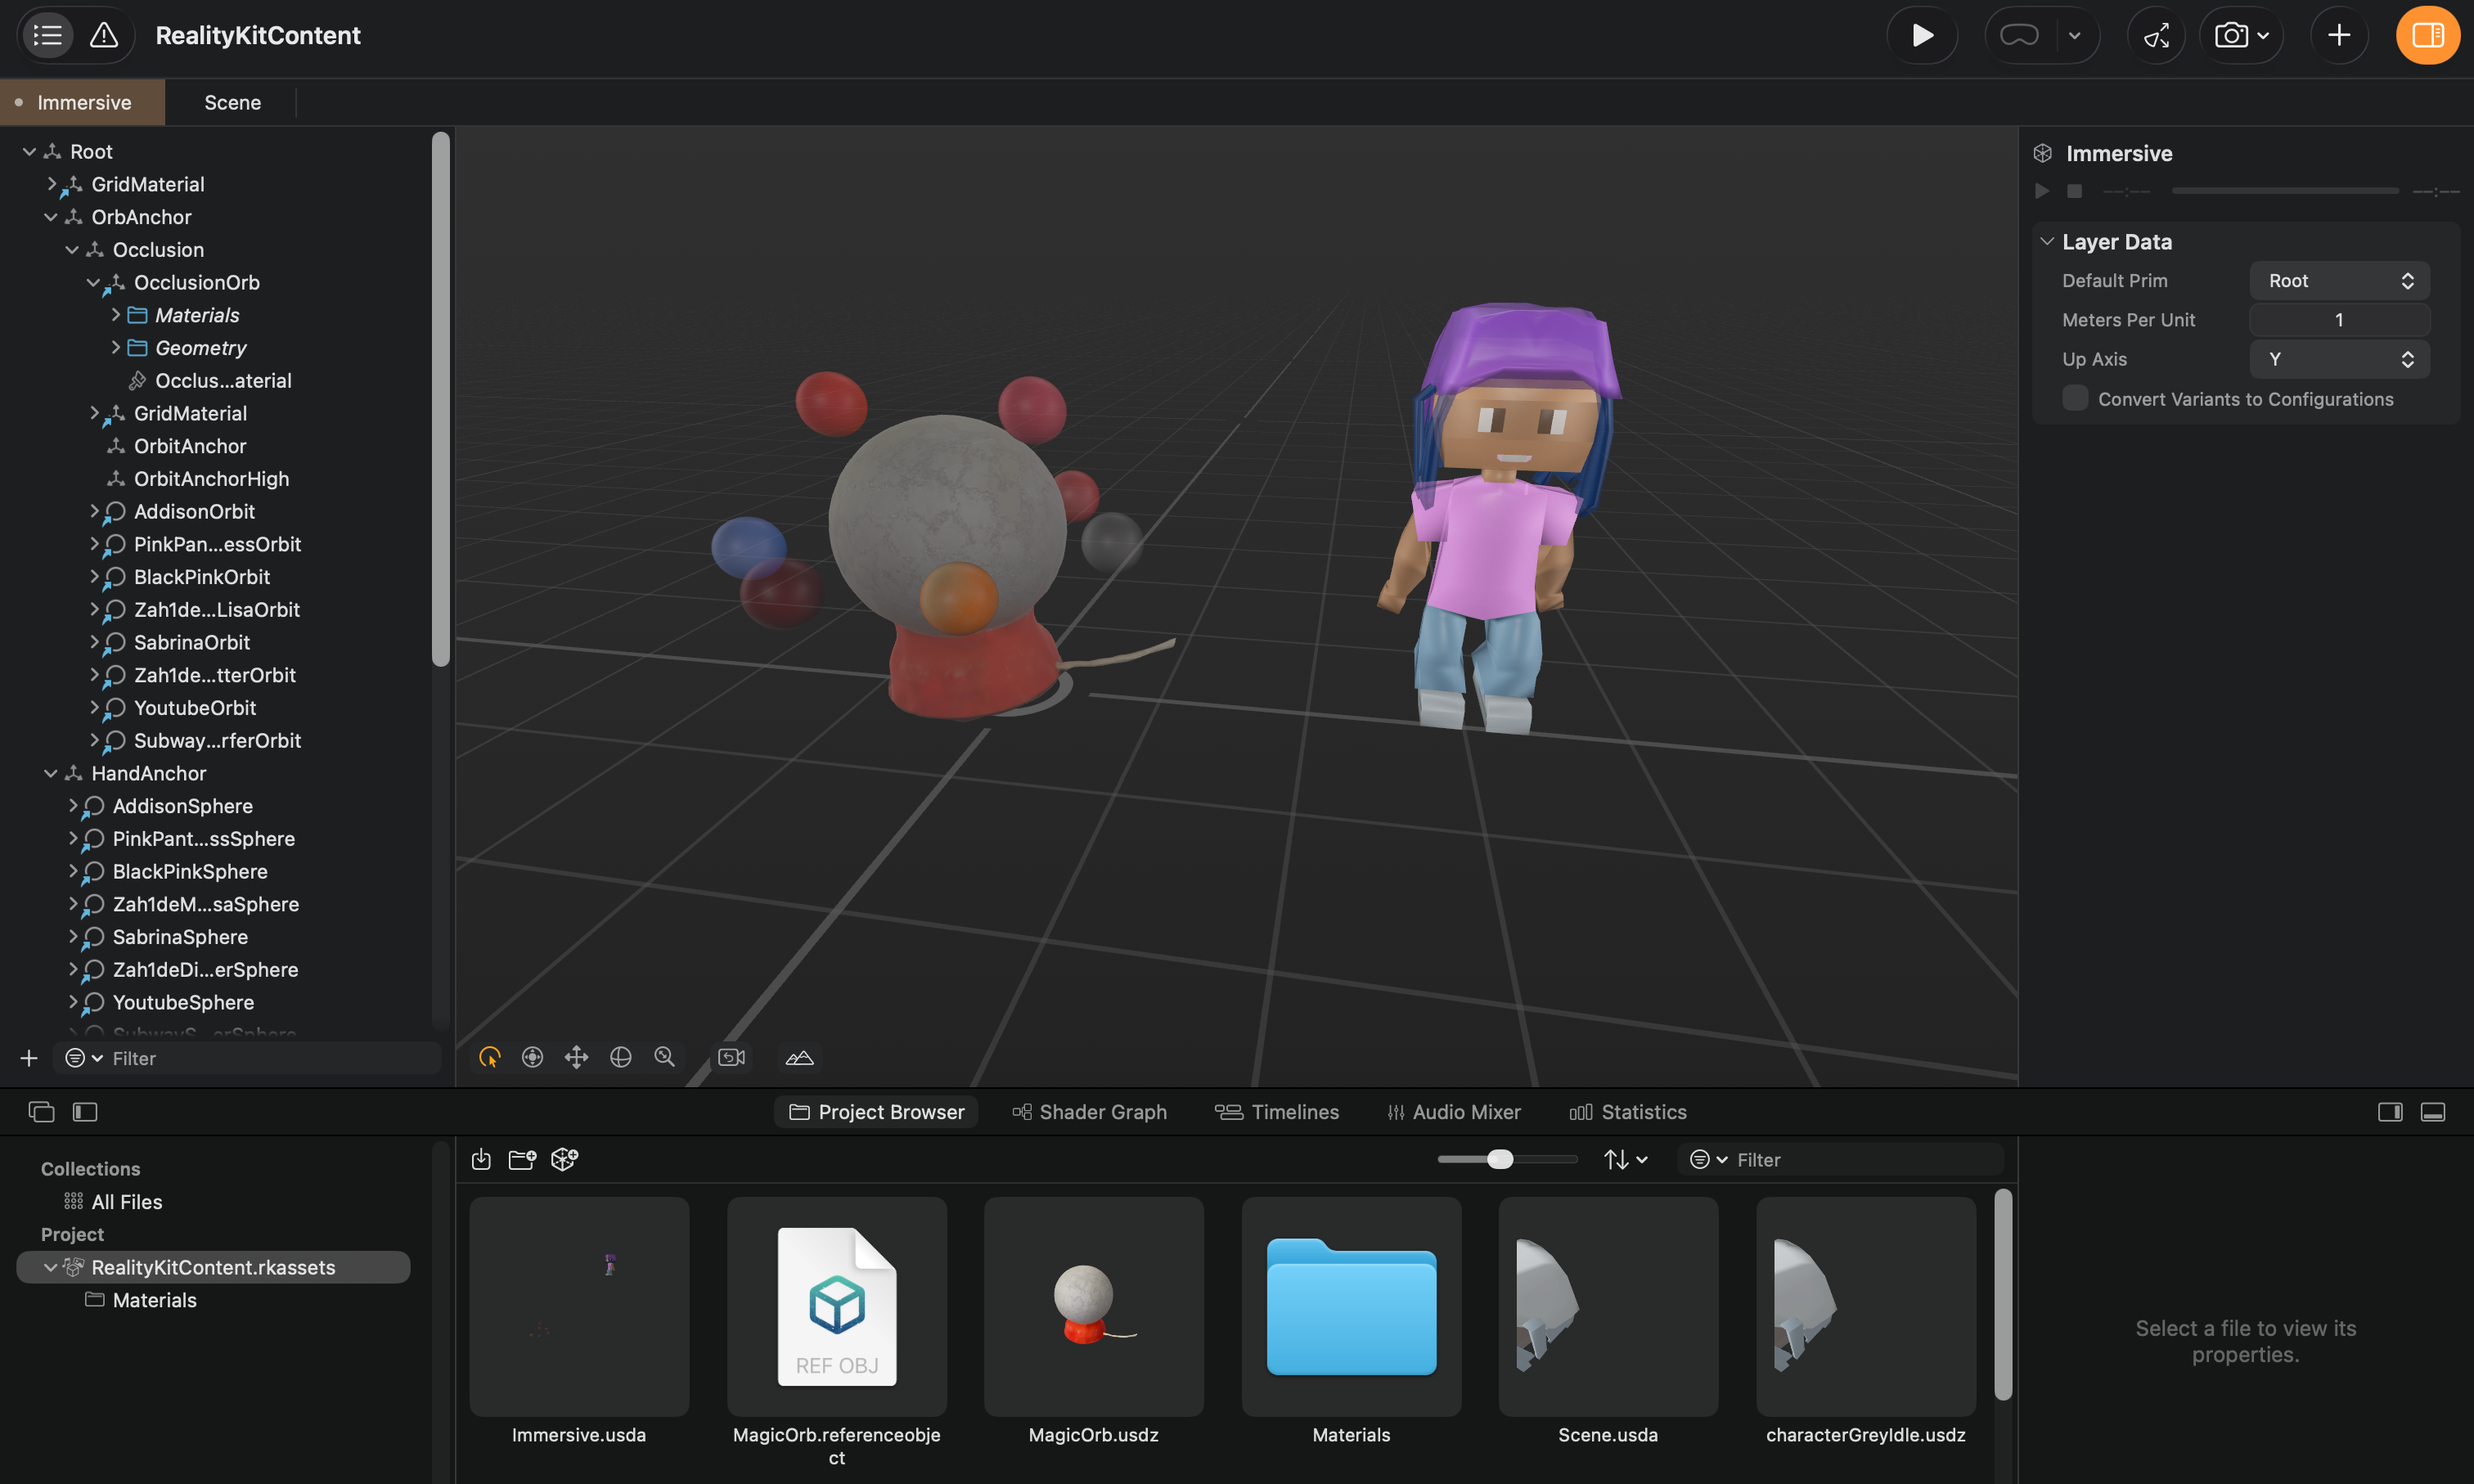
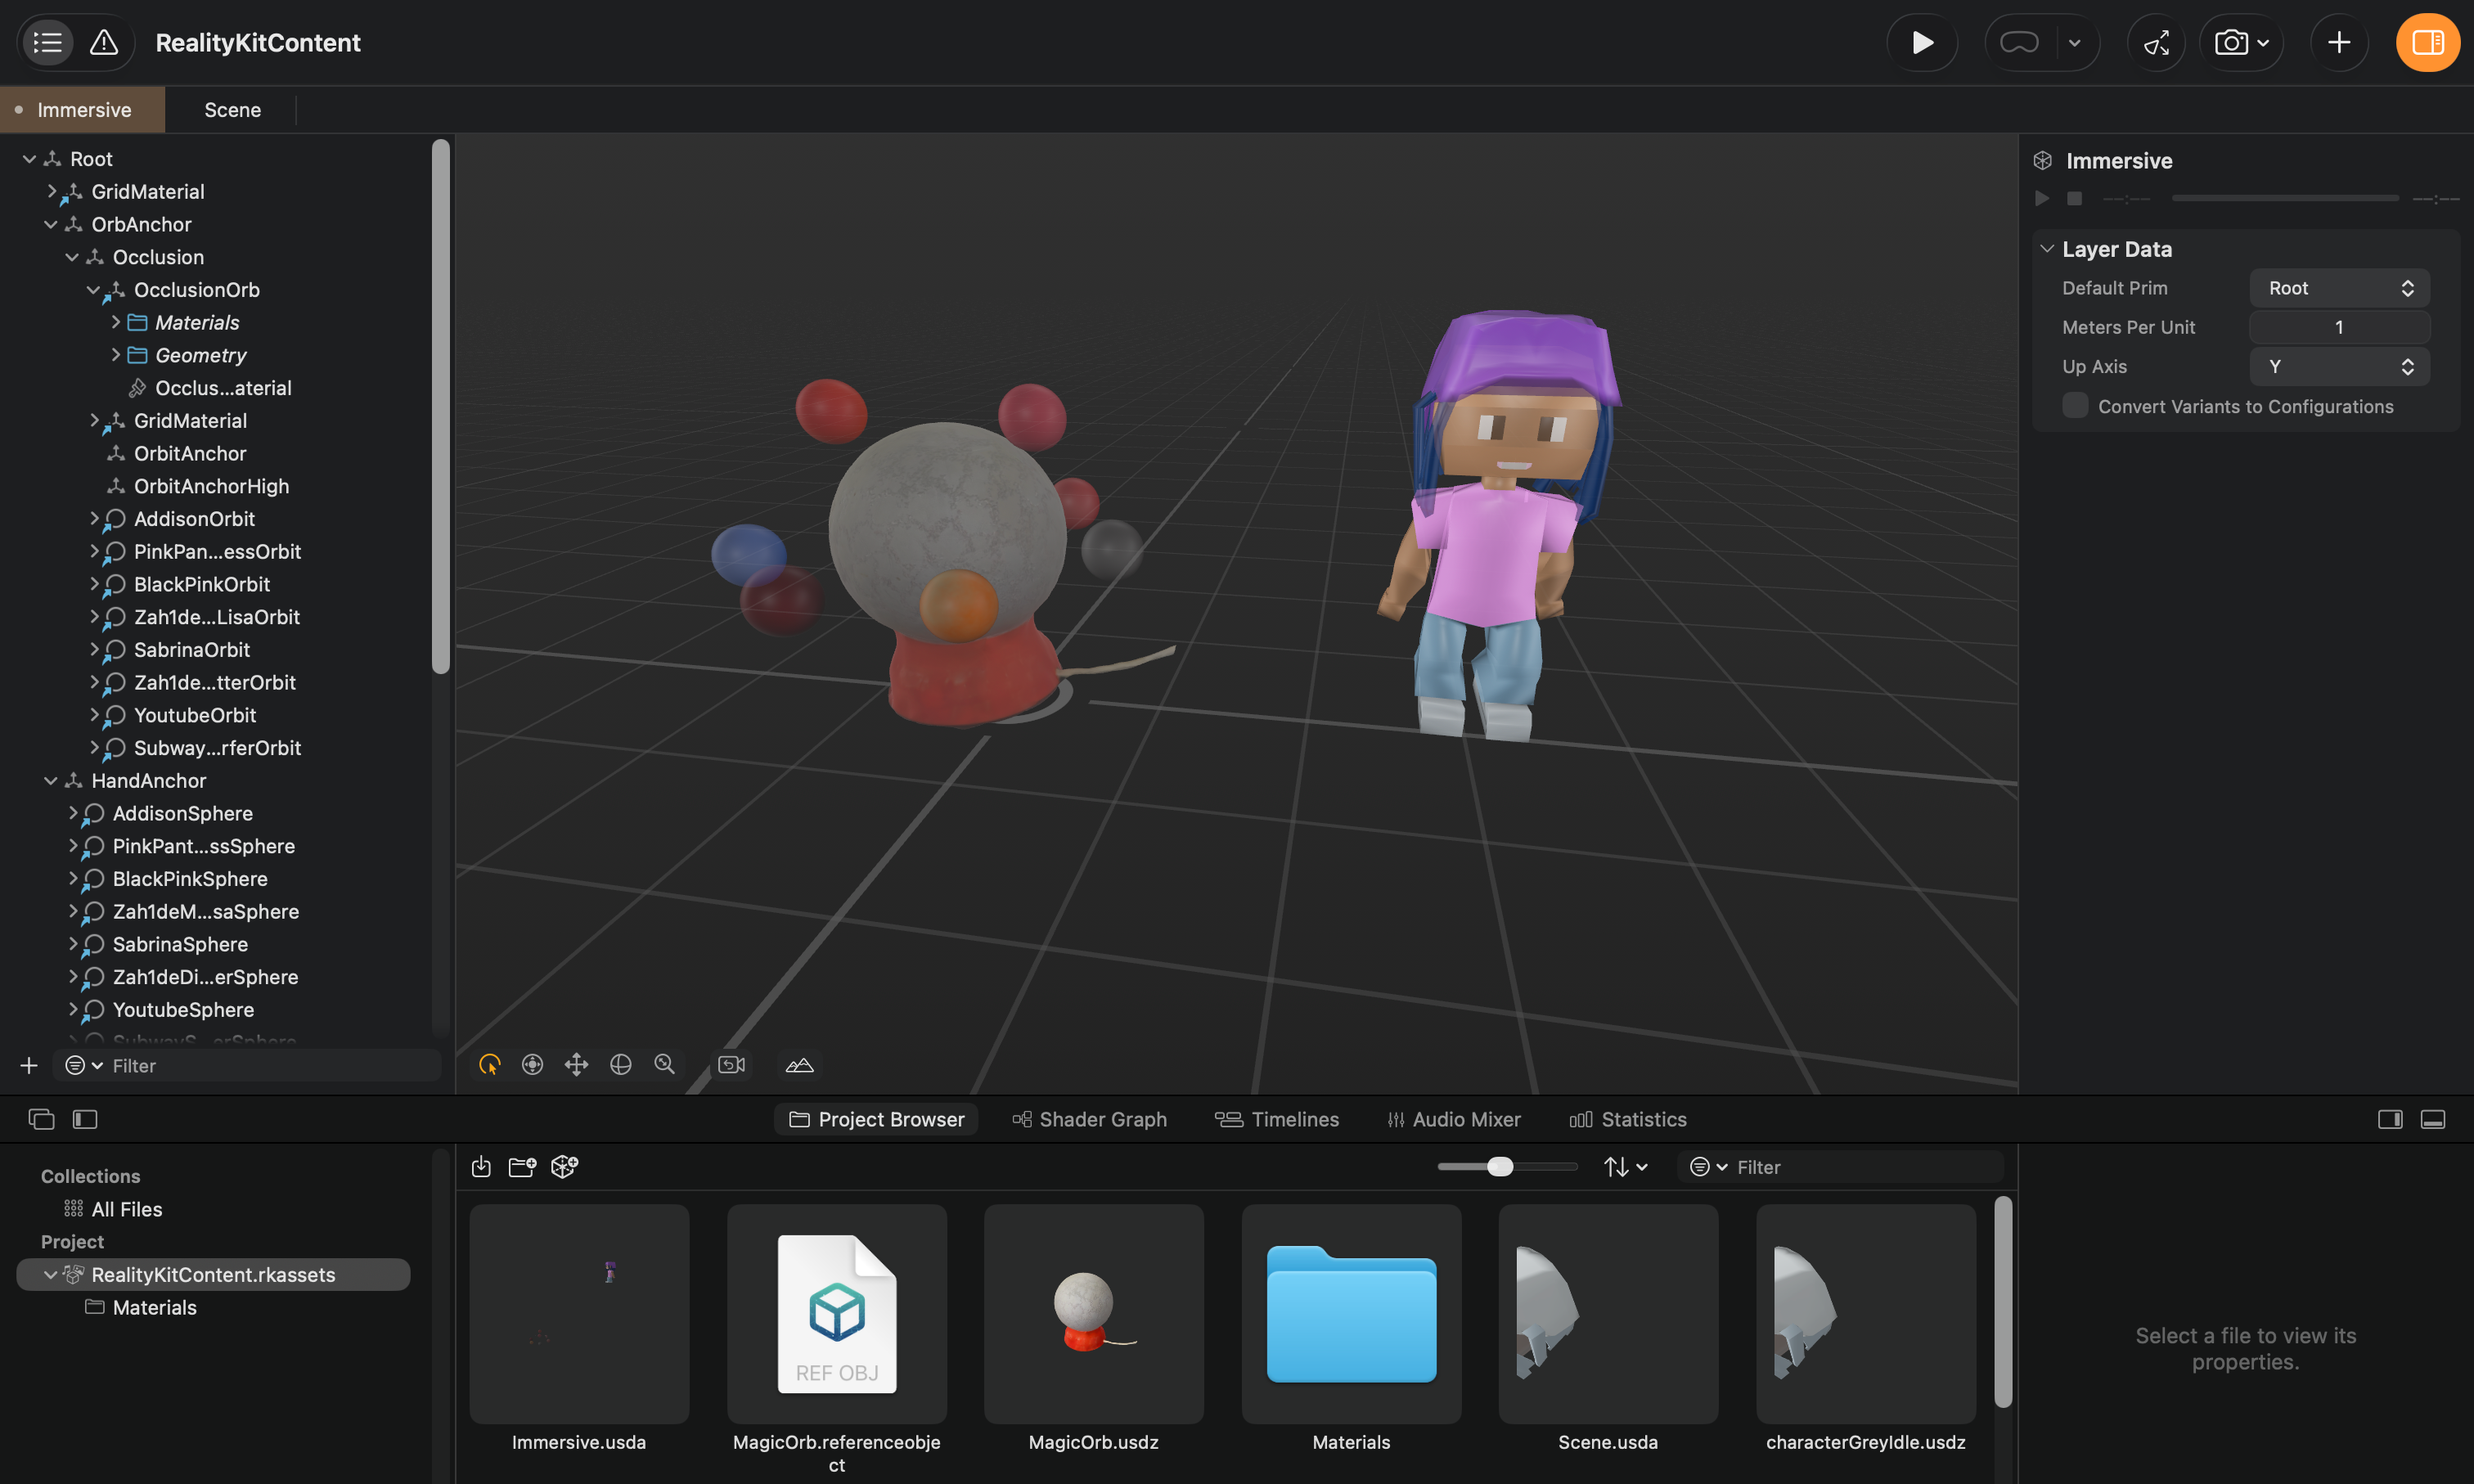
updated description 1&2

diff --git a/2.html b/2.html
@@ -76,8 +76,6 @@
 						<div class="card-text">
 							<p>
 								our main character-NPC, gary the hamster
-								<br>
-								<br>
 							</p>
 						</div>
 					</div>
@@ -86,8 +84,6 @@
 						<div class="card-text">
 							<p>
 								ants leading the way to the next point of interest
-								<br>
-								<br>
 							</p>
 						</div>
 					</div>
@@ -96,8 +92,6 @@
 						<div class="card-text">
 							<p>
 								our expandable minimap, available via button-press
-								<br>
-								<br>
 							</p>
 						</div>
 					</div>
@@ -106,8 +100,6 @@
 						<div class="card-text">
 							<p>
 								sliding puzzle minigame, needs to be completed to unlock next level
-								<br>
-								<br>
 							</p>
 						</div>
 					</div>
@@ -116,8 +108,6 @@
 						<div class="card-text">
 							<p>
 								game soundtrack
-								<br>
-								<br>
 							</p>
 						</div>
 					</div>
@@ -137,27 +127,67 @@
 			</div>
 		</div>
 
-		<div class="description mt-4">
-			<h2 class="h5">Game Soundtrack</h2>
-			<div class="mb-3">
-				<audio id="audio-player" controls loop style="width: 100%; max-width: 600px;">
-					<source src="resources/img/unity/game soundtrack.wav" type="audio/wav">
-					Your browser does not support the audio element.
-				</audio>
-			</div>
-		</div>
+        <div class="description content-spacer">
+            <div class="description">
+                <h2 class="h5">Project Description</h2>
 
-		<div class="description">
-			<h2 class="h5">Project description</h2>
-			<p class="mb-2">
-				This section provides additional context about the project, including goals, process, and outcomes. You
-				can write as much as you need here to describe the work in detail.
-			</p>
-			<p class="mb-0">
-				Feel free to include links, acknowledgements, and any relevant background information. This area is
-				intended for longer-form text to complement the images above.
-			</p>
-		</div>
+                <p class="mb-2">
+                    Developed as part of a Human-Computer Interaction (HCI) research module, this project explores user navigation within virtual spaces. The result is a VR escape-room experience on the <strong>Meta Quest 3</strong> that utilizes diegetic navigation cues—such as dynamic "ant-trails" and compasses—to guide users through complex spatial puzzles.
+                </p>
+                
+                <p class="mb-2">
+                    <strong>Project Management & Pipeline</strong><br>
+                    As the Scrum Master for a team of three, I bridged the gap between creative design and technical implementation. I coordinated our sprint goals using Jira (Scrum) and established a Git workflow that allowed us to collaborate efficiently without stepping on each other's code.
+                </p>
+                <p class="mb-2">
+                    To keep our repository clean, I introduced a weekly integration protocol we internally dubbed "Merge Mondays." This routine helped us resolve merge conflicts early and ensured our main branch remained stable for regular testing.
+                </p>
+                
+                <p class="mb-2">
+                    <strong>Narrative & NPC Logic</strong><br>
+                    I was responsible for the design and technical implementation of "Gary," a companion NPC driven by a custom state machine. This system managed the character's lifecycle, orchestrating his spawn points and triggering context-sensitive dialogue based on the player's real-time progress through the escape room.
+                </p>
+                <p class="mb-2">
+                    To influence user pacing and immersion, I also composed and implemented the original soundtrack (listen below).
+                </p>
+
+                <p class="mb-1"><strong>Key Technical Implementations:</strong></p>
+                <ul class="mb-3">
+                    <li>
+                        <strong>Navigation Systems:</strong> Implemented multiple pathfinding tools using Unity's navigation mesh, including a dynamic visual trail and an expandable minimap UI.
+                    </li>
+                    <br>
+                    <li>
+                        <strong>UI/UX Experimentation:</strong> Designed a "Dark Mode" challenge variant. This timed mode features increased intensity and satirizes modern dark-mode interfaces, serving as a test for user efficiency under visual pressure.
+                    </li>
+                    <br>
+                    <li>
+                        <strong>Interactive Storytelling:</strong> Built a state-machine driven narrative structure that guides the player from the initial puzzle to a cinematic ending sequence.
+                    </li>
+                </ul>
+                
+                <div class="description mt-4">
+                    <h2 class="h5">Game Soundtrack</h2>
+                    <div class="mb-3">
+                        <audio id="audio-player" controls loop style="width: 100%; max-width: 600px;">
+                            <source src="resources/img/unity/game soundtrack.wav" type="audio/wav">
+                            Your browser does not support the audio element.
+                        </audio>
+                    </div>
+                </div>
+                
+                <div class="technical-summary mb-4 text-muted">
+                    <strong>Technical Details</strong>
+                    <ul class="mt-1">
+                        <li><strong>Hardware:</strong> Meta Quest 3</li>
+                        <li><strong>Core Tech:</strong> Unity, OpenXR, C#</li>
+                        <li><strong>Management:</strong> Jira (Scrum), Git/GitHub</li>
+                        <li><strong>Creative Tools:</strong> Ableton Live</li>
+                    </ul>
+                </div>
+                
+            </div>
+        </div>
 
 		<!--button-->
 		<a href="index.html" class="btn btn-secondary mt-3">see all</a>

diff --git a/1.html b/1.html
@@ -76,8 +76,6 @@
 						<div class="card-text">
 							<p>
 								rendering of the selfmade character model in open-source software blender
-								<br>
-								<br>
 							</p>
 						</div>
 					</div>
@@ -87,8 +85,6 @@
 						<div class="card-text">
 							<p>
 								our custom model and real world object assembled in reality composer pro scene
-								<br>
-								<br>
 							</p>
 						</div>
 					</div>
@@ -97,8 +93,6 @@
 						<div class="card-text">
 							<p>
 								a look at my xcode-structure where I'm adding UI-elements to the spatial layout
-								<br>
-								<br>
 							</p>
 						</div>
 					</div>
@@ -118,17 +112,63 @@
 			</div>
 		</div>
 
-		<div class="description">
-			<h2 class="h5">Project description</h2>
-			<p class="mb-2">
-				This section provides additional context about the project, including goals, process, and outcomes. You
-				can write as much as you need here to describe the work in detail.
-			</p>
-			<p class="mb-0">
-				Feel free to include links, acknowledgements, and any relevant background information. This area is
-				intended for longer-form text to complement the images above.
-			</p>
-		</div>
+        <div class="description content-spacer">
+            <div class="description">
+                <h2 class="h5">Project description</h2>
+
+                <p class="mb-2">
+                    I am currently in the testing phase of my bachelor's thesis, which focuses on developing a Mixed Reality (MR) application designed to educate children aged 10–12 about data collection and privacy on smart devices.
+                </p>
+                <p class="mb-2">
+                    The primary goal was to create an engaging, hands-on experience that simplifies the complex topic of data collection, making it appropriate for a child’s understanding of how their phones and tablets truly operate.
+                </p>
+
+                <p class="mb-2">
+                    <strong>Motivation & Impact</strong><br>
+                    This work is motivated by the critical need for digital literacy education during a pivotal developmental stage; in Germany, phone ownership jumps significantly for children in the 10-12 age bracket. While traditional instruction exists, this project leverages a gamification approach to actively empower children to become informed subjects regarding their digital footprint.
+                </p>
+                <p class="mb-2">
+                    This thesis builds upon a prior master’s thesis that established the theoretical design and early-stage prototyping, advancing the concept to a fully realized, immersive application.
+                </p>
+
+                <p class="mb-2">
+                    The application is architected for Apple Vision Pro, utilizing a powerful stack of technologies to blend the digital and physical worlds: SwiftUI, Combine, RealityKit, and ARKit.
+                </p>
+
+                <p class="mb-1"><strong>Key features of the experience:</strong></p>
+                <ul class="mb-3">
+                    <li>
+                        <strong>Guided Exploration:</strong> A user is presented with a prepped physical phone and tablet, where a virtual character provides hints for interaction.
+                    </li>
+                    <br>
+                    <li>
+                        <strong>Data Visualization:</strong> Actions like listening to music trigger the drop of virtual information orbs near the physical device.
+                    </li>
+                    <br>
+                    <li>
+                        <strong>Physical-Digital Anchoring:</strong> Users are encouraged to collect these orbs and add them to a "portal" anchored to a real-world object (e.g., a moon-like lamp), using physical space as the primary interactive canvas.
+                    </li>
+                    <br>
+                    <li>
+                        <strong>Inferred Data:</strong>The character explains how personal profiles are built from collected data, and an inventory-style overview. After collection, the data is processed and visualized, demonstrating how inferred data (assumptions about the user based on collected data) is generated and added to the profile.
+                    </li>
+                </ul>
+
+                    <p class="mb-5"> <strong>Expected Outcome</strong><br>
+                        We anticipate that this highly immersive and interactive experience will lead to a significantly increased awareness of data collection and inferential profiling.
+                    </p>
+
+                    <div class="technical-summary mb-4 text-muted">
+                            <strong>Technical Details</strong>
+                            <ul class="mt-1">
+                                <li><strong>Platform:</strong> Apple Vision Pro (visionOS)</li>
+                                <li><strong>Tech Stack:</strong> SwiftUI, Combine, RealityKit, ARKit</li>
+                                <li><strong>Paradigm:</strong> Mixed Reality (MR) & Tangible User Interfaces</li>
+                                <li><strong>Target Audience:</strong> Children (10–12 years)</li>
+                            </ul>
+                        </div>
+            </div>
+        </div>
 
 		<!--button-->
 		<a href="index.html" class="btn btn-secondary mt-3">see all</a>

diff --git a/resources/css/style.css b/resources/css/style.css
@@ -327,3 +327,11 @@ footer {
     color: #555;
 
 }
+
+.content-spacer {
+    /* This pushes the next element (the button) down */
+    margin-bottom: 40px;
+    
+    /* Optional: If you want space inside the box instead, use padding */
+    /* padding-bottom: 40px; */
+}
